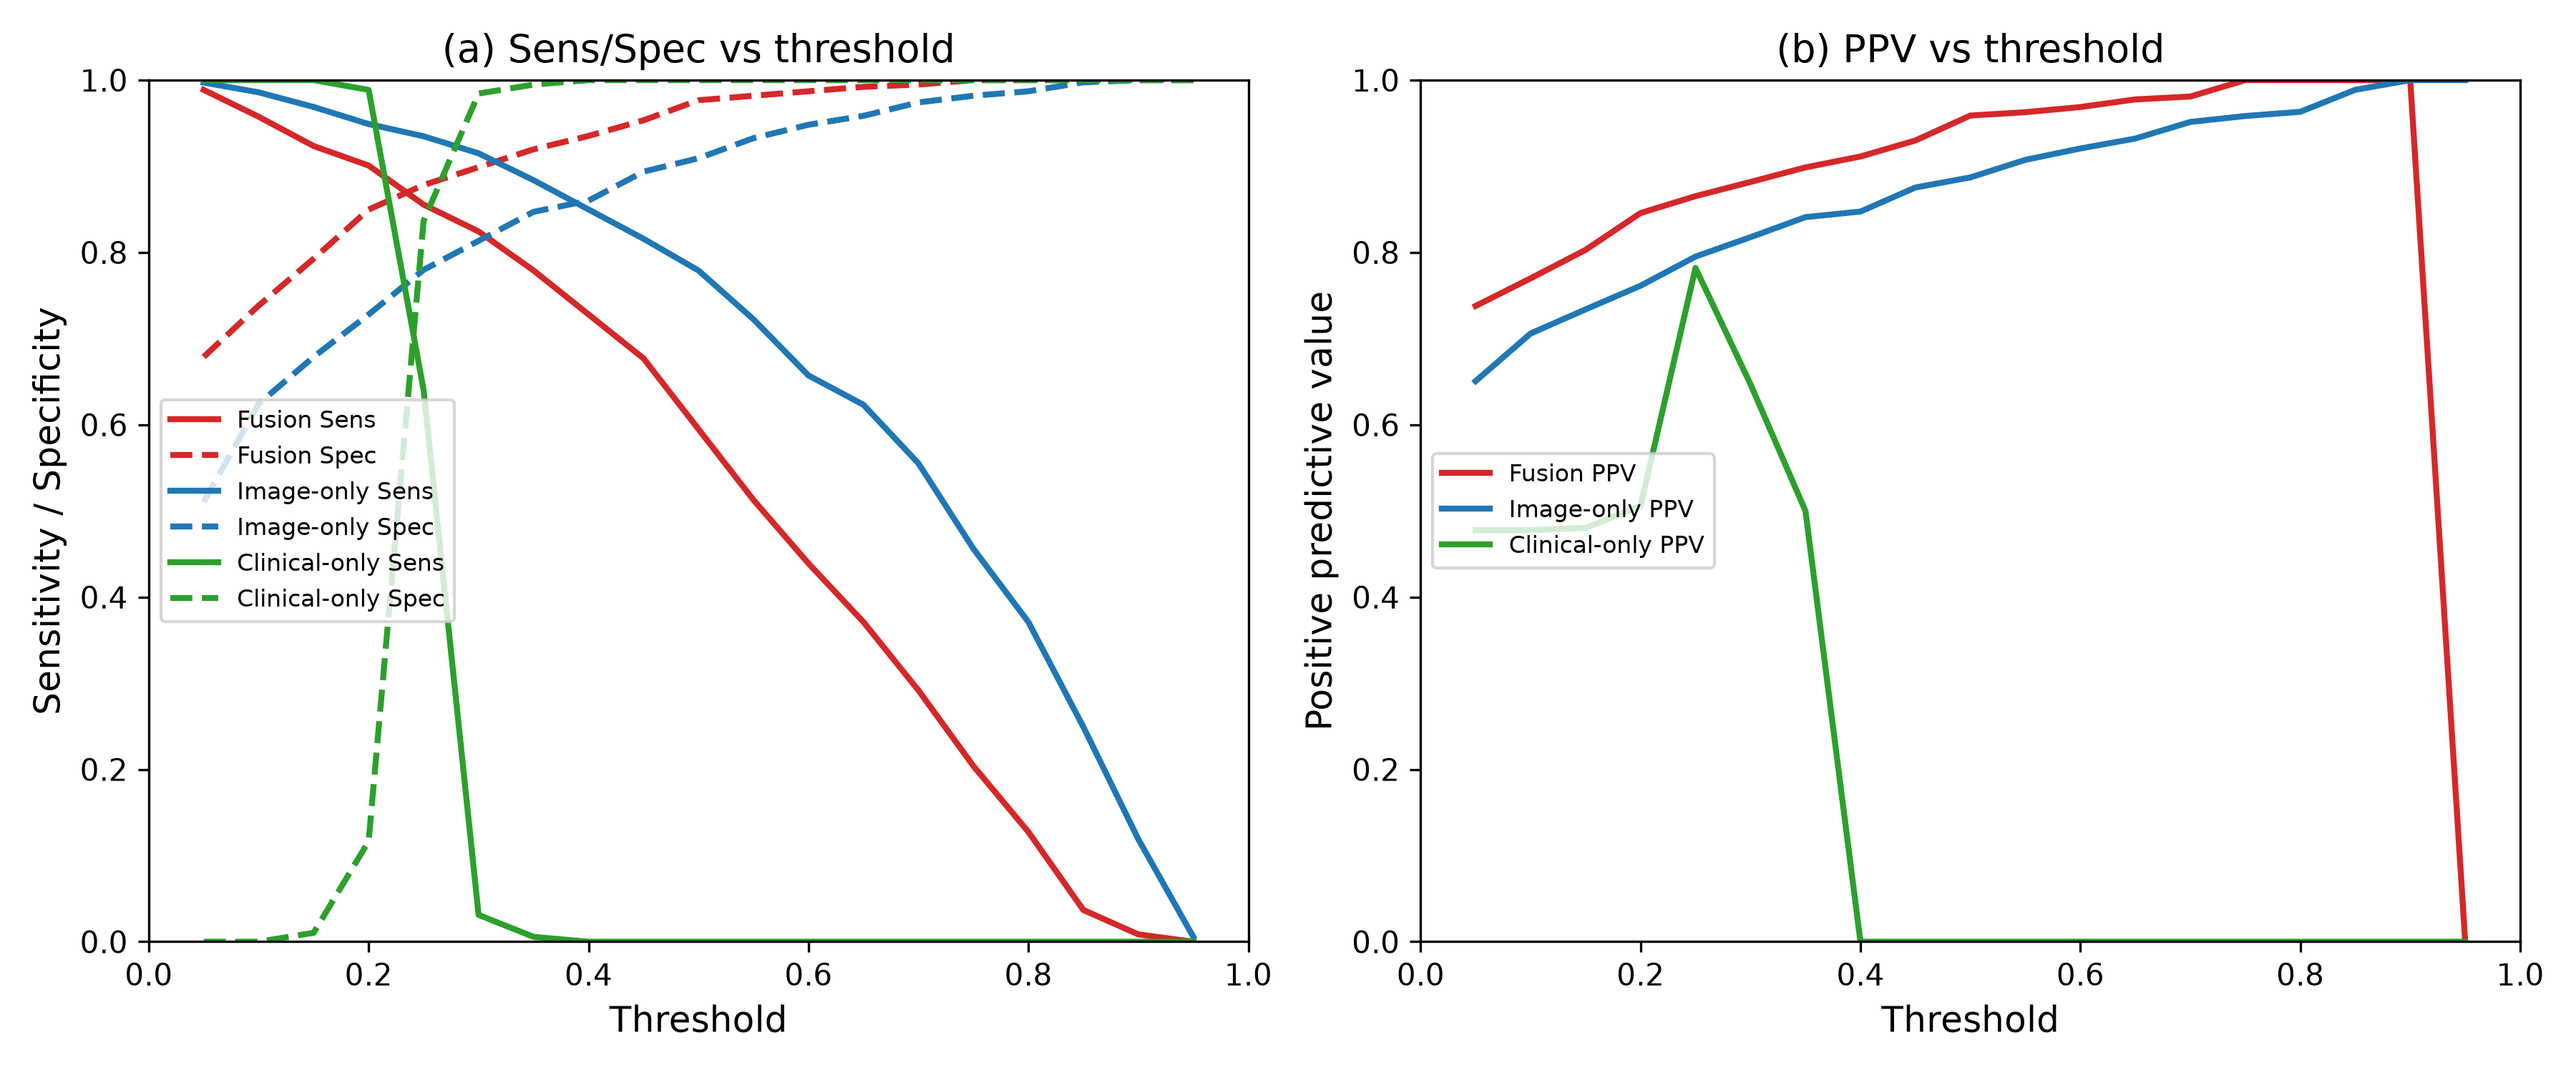
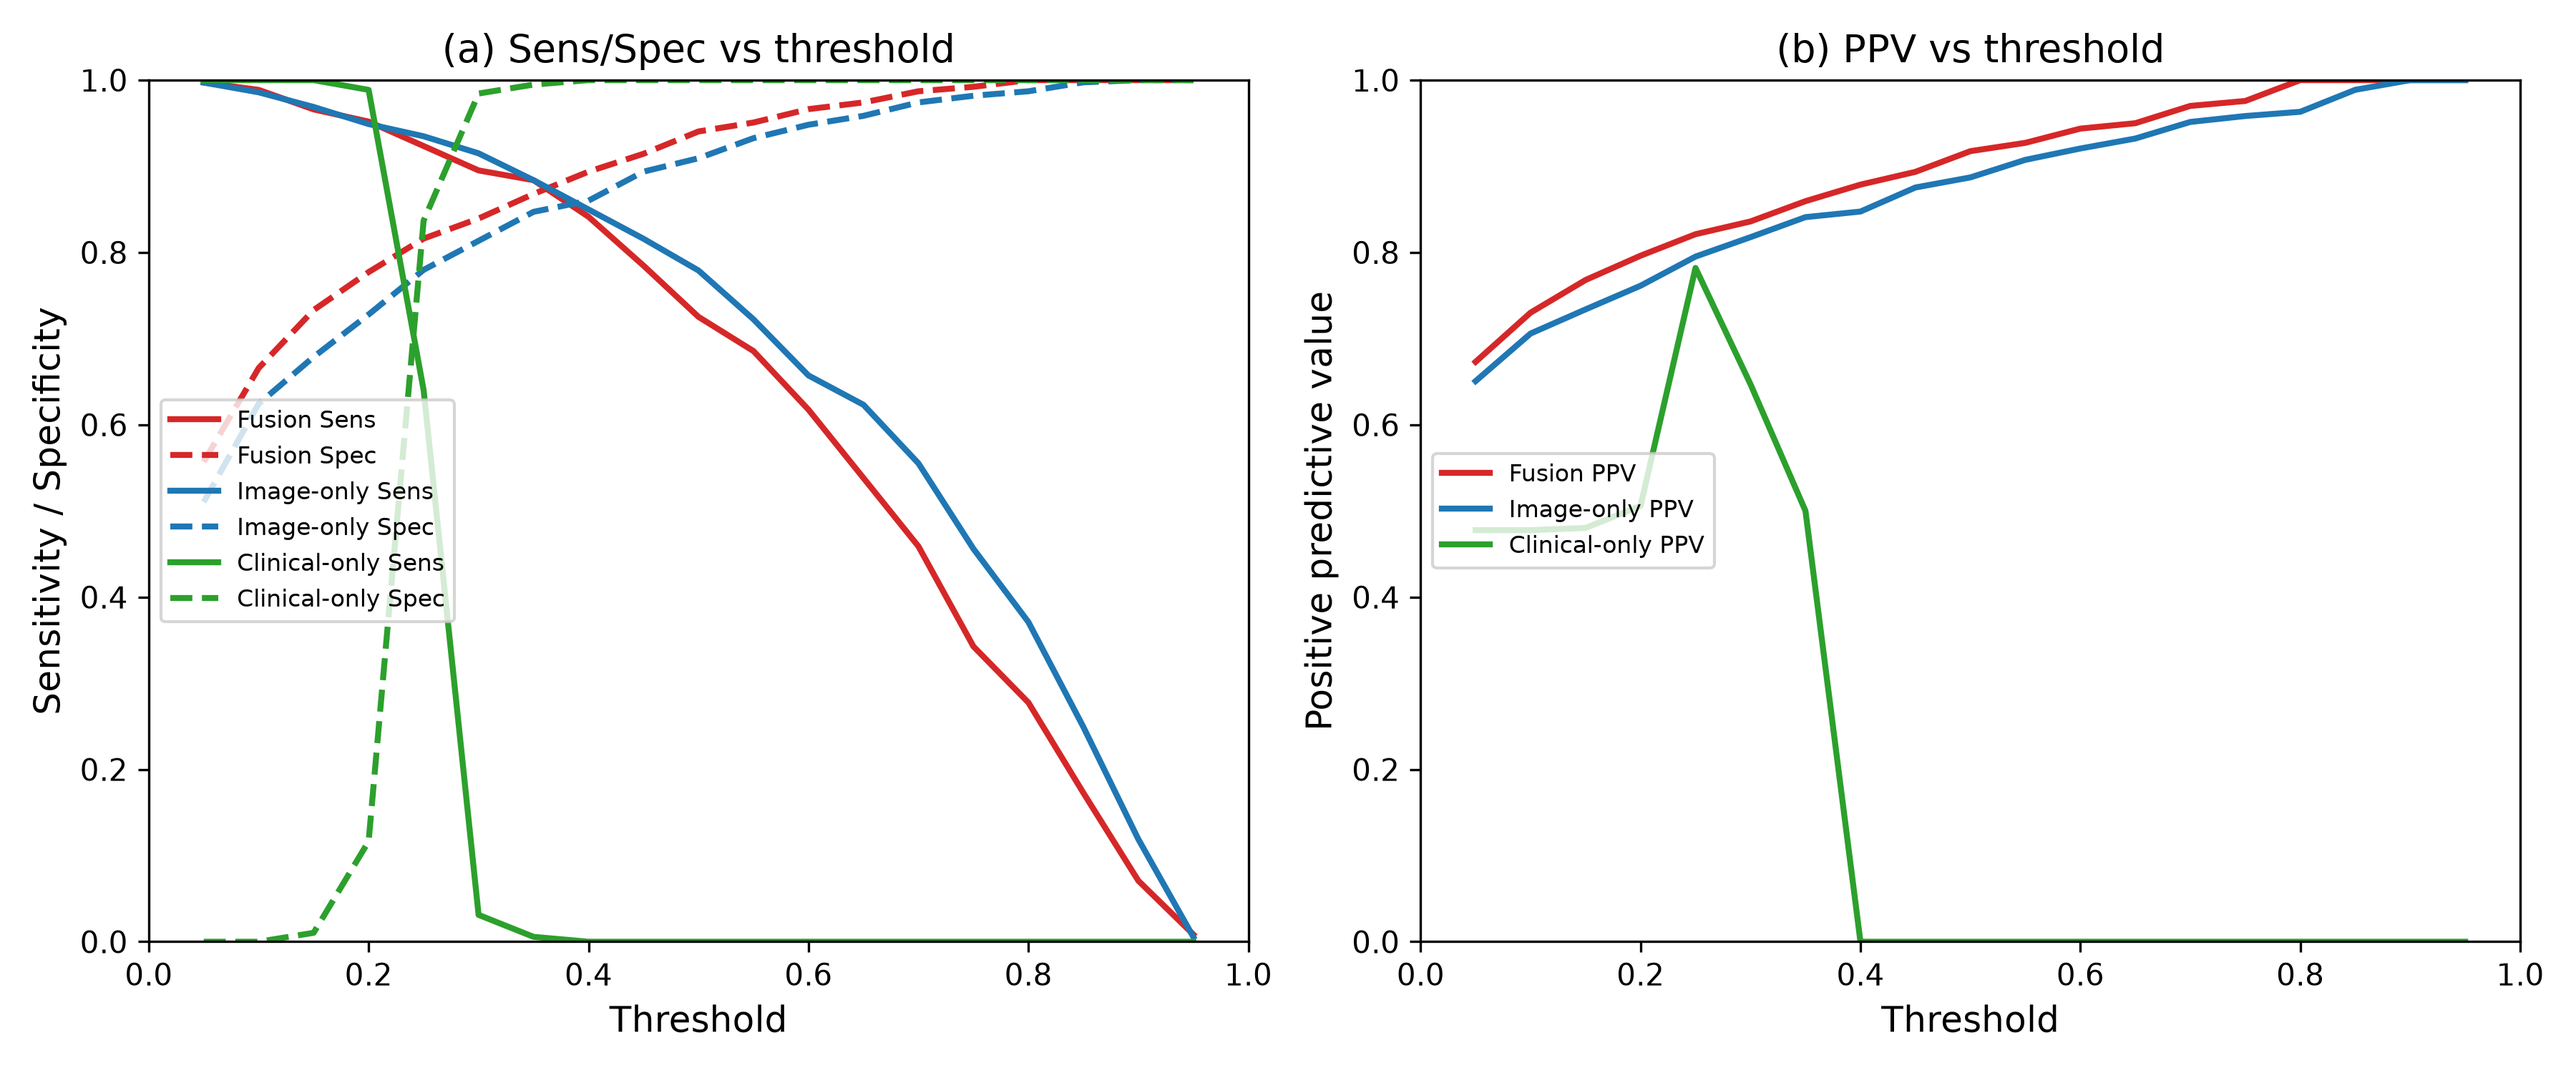
Cleanup + submission package: refresh Figure 8, scripts read committed results
- analyze_threshold.py now writes paper/figures/fig8.png (was a differently
  named file that md_to_docx never embedded); Figure 8 in the Word manuscript
  now reflects the final Youden operating points (fusion PPV 0.856/NPV 0.898).
- summarize_thyroidxl.py / tirads_baseline.py read the committed canonical
  results under paper/output/repro/ instead of a local scratch workspace.
- Remove redundant thyroidxl_threshold_sensitivity.png.
- Add submission/ (curated, git-ignored package: manuscript, figures,
  checklists, cover letter, reproducibility bundle) and its README.
- Delete local bloat: repro_eval scratch (1.5 GB), image_backup duplicates
  (0.24 GB), __pycache__, empty qc/.

diff --git a/paper/scripts/summarize_thyroidxl.py b/paper/scripts/summarize_thyroidxl.py
@@ -15,17 +15,11 @@ LABELS = {"image": "Image-only", "clinical": "Clinical-only", "fusion": "Fusion"
 
 
 def load_eval(ab):
-    # Canonical nodule-level eval (batch 32, mean aggregation); runs the eval if missing.
-    d = PROJ / "checkpoints" / "thyroid" / "repro_eval" / f"{ab}_b32"
-    p = d / "eval_test.json"
+    # Canonical nodule-level results (batch 32, mean aggregation), committed under
+    # paper/output/repro/ (generated by eval_thyroid.py --aggregate mean).
+    p = PROJ / "paper" / "output" / "repro" / f"ablation_{ab}_nodule.json"
     if not p.exists():
-        import subprocess, sys
-        cmd = [sys.executable, "eval_thyroid.py",
-               "--weights", str(d / "best.pt"),
-               "--data_root", "data/thyroid/thyroidxl", "--split", "test",
-               "--batch_size", "32", "--aggregate", "mean",
-               "--clinical_columns", "tirads,width_mm,height_mm,age,gender"]
-        subprocess.run(cmd, check=True, cwd=PROJ)
+        return None
     return json.loads(p.read_text(encoding="utf-8"))
 
 

diff --git a/paper/scripts/analyze_threshold.py b/paper/scripts/analyze_threshold.py
@@ -5,7 +5,7 @@
 对 ThyroidXL 三臂模型（fusion/image/clinical）的 test 结节级 mean 预测，
 计算不同阈值下的 Sens/Spec/PPV/NPV，输出：
   - 控制台表（Youden 阈值处 PPV/NPV）
-  - paper/figures/thyroidxl_threshold_sensitivity.png（阈值曲线）
+  - paper/figures/fig8.png（阈值曲线，Figure 8）
   - paper/notes/threshold_analysis.md（汇总）
 """
 import json
@@ -136,9 +136,9 @@ def main():
     axes[1].set_xlim(0, 1); axes[1].set_ylim(0, 1)
     axes[1].legend(fontsize=8, loc="center left")
     fig.tight_layout()
-    fig.savefig(FIG_DIR / "thyroidxl_threshold_sensitivity.png", dpi=300)
+    fig.savefig(FIG_DIR / "fig8.png", dpi=300)
     plt.close(fig)
-    print("saved thyroidxl_threshold_sensitivity.png")
+    print("saved fig8.png")
 
     # markdown
     md = ["# Threshold Analysis (ThyroidXL test, nodule-level, n=739)",

diff --git a/paper/scripts/tirads_baseline.py b/paper/scripts/tirads_baseline.py
@@ -74,7 +74,7 @@ def main():
     # 对比 AI 三臂（从 eval_test.json）
     print("\n=== 对比：AI 模型（结节级 mean，n=739）===")
     for ab in ["fusion", "image", "clinical"]:
-        p = PROJ / "checkpoints" / "thyroid" / "repro_eval" / f"{ab}_b32" / "eval_test.json"
+        p = PROJ / "paper" / "output" / "repro" / f"ablation_{ab}_nodule.json"
         if p.exists():
             d = json.loads(p.read_text(encoding="utf-8"))
             mm = d["metrics"]
